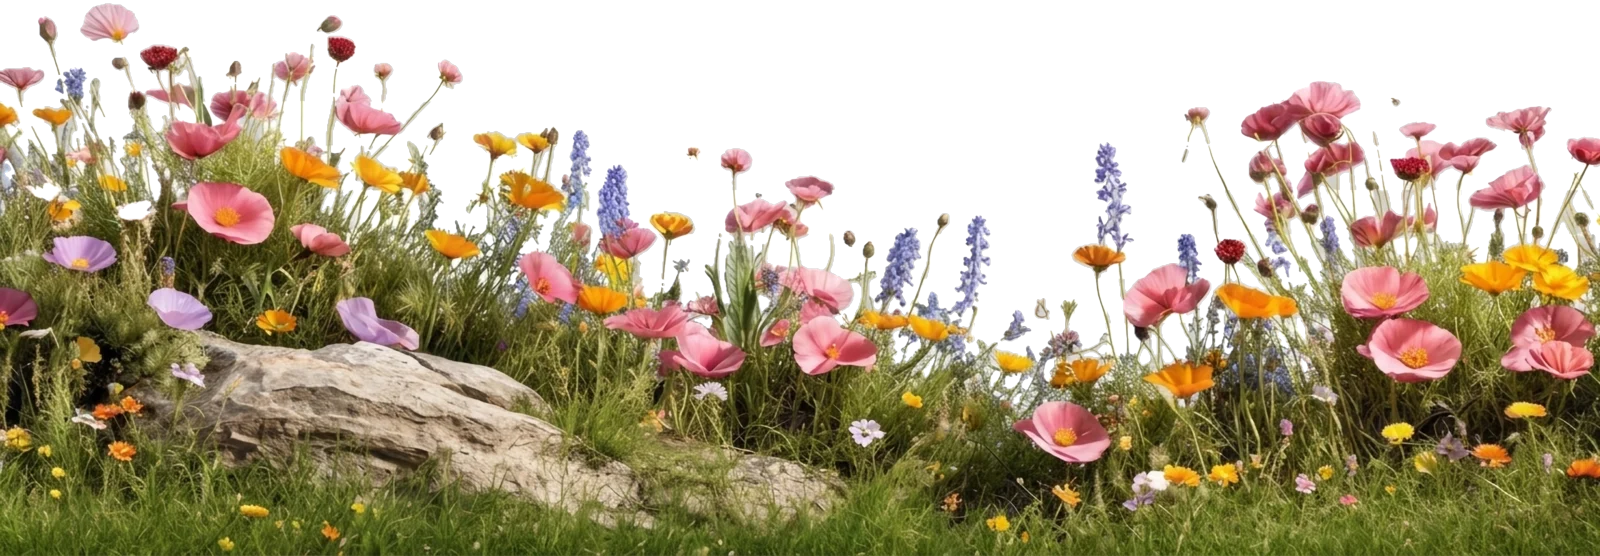
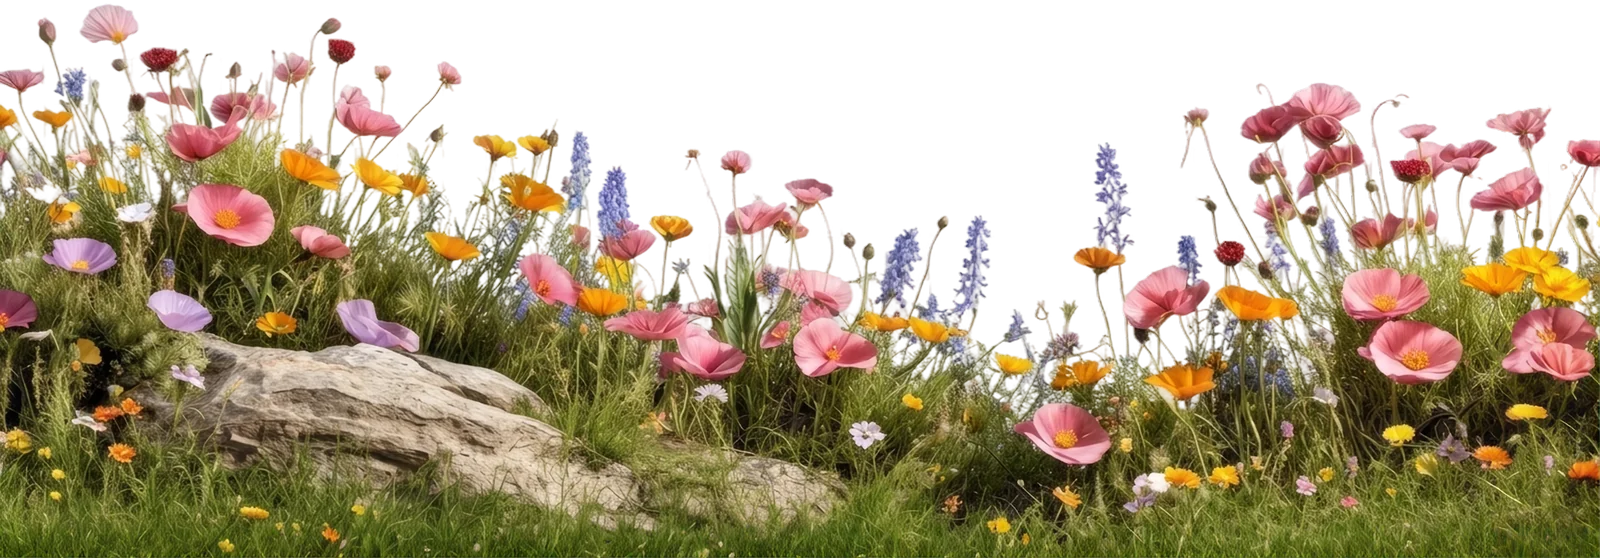
New footer meadow cutout; dark contact image more visible with lighter fade

diff --git a/index.html b/index.html
@@ -541,8 +541,8 @@
         <g class="fw__base"><path d="M46.03,12.52h7.51c4.18,0,7.21,2.71,7.21,6.7c0,3.96-3.03,6.73-7.21,6.73h-3.42v7.33h-4.09V12.52z M53.53,22.24c1.91,0,3.03-1.23,3.03-3.02c0-1.76-1.18-2.96-3.03-2.96h-3.42v5.98H53.53z"/><path d="M64.85,9.41c1.45,0,2.63,1.13,2.63,2.64c0,1.48-1.18,2.61-2.63,2.61c-1.45,0-2.6-1.13-2.6-2.61 C62.25,10.54,63.4,9.41,64.85,9.41z M62.82,17.71h4.09v15.57h-4.09V17.71z"/><path d="M79.29,33.29l-3.21-4.97l-3.24,4.97h-4.57l5.48-8.02l-5.12-7.55h4.57l2.88,4.5l2.85-4.5h4.57l-5.15,7.52 l5.51,8.05H79.29z"/><path d="M87.89,26.93c0.48,1.98,2.03,3.08,4.21,3.08c1.48,0,2.88-0.53,4.18-1.57l1.7,2.89 c-1.79,1.54-3.78,2.33-5.99,2.33c-4.63,0.09-8.29-3.65-8.2-8.15c-0.09-4.5,3.51-8.24,7.84-8.15c4.15,0,7.05,3.18,7.05,7.24 c0,0.75-0.09,1.54-0.27,2.33H87.89z M94.7,23.94c-0.03-1.92-1.45-3.15-3.24-3.15c-1.73,0-3.12,1.23-3.57,3.15H94.7z"/><path d="M100.93,9.69h4.09v23.6h-4.09V9.69z"/><path d="M117.79,33.29c-0.97,0.25-1.91,0.38-2.82,0.38c-3.78,0-5.99-1.95-5.99-5.85V21.3h-2.36v-3.59h2.36v-3.93 h4.09v3.93h4.24v3.59h-4.24v6.13c0,1.76,0.85,2.42,2.79,2.42c0.24,0,0.88-0.03,1.94-0.13V33.29z"/><path d="M126.72,17.37c4.39-0.06,8.14,3.68,8.05,8.12c0.09,4.44-3.69,8.24-8.08,8.15c-4.39,0.09-8.08-3.71-7.99-8.15 C118.61,21.05,122.33,17.27,126.72,17.37z M126.72,21.24c-2.27,0-3.88,1.79-3.88,4.28c0,2.42,1.6,4.22,3.88,4.22 c2.21,0,3.88-1.79,3.88-4.22C130.59,23.09,128.93,21.24,126.72,21.24z"/><path d="M136.89,17.71h4.09v9.06c0,1.79,1.18,2.99,2.85,2.99c1.57,0,2.79-1.2,2.79-2.99v-9.06h4.09v8.71 c0,4.34-2.97,7.24-6.87,7.24c-4,0-6.93-2.89-6.93-7.24V17.71z"/><path d="M160.86,17.37c2.94,0,5.21,1.45,6.51,3.84l-2.85,2.3c-0.94-1.42-2.03-2.27-3.6-2.27 c-2.3,0-3.94,1.83-3.94,4.25c0,2.49,1.63,4.28,3.94,4.28c1.54,0,2.63-0.82,3.6-2.23l2.85,2.27c-1.3,2.39-3.6,3.87-6.51,3.87 c-4.39,0.09-8.08-3.68-8.02-8.18C152.84,20.92,156.41,17.37,160.86,17.37z"/><path d="M183.26,33.29h-4.06v-9.06c0-1.79-1.12-3.02-2.79-3.02c-1.67,0-2.85,1.23-2.85,3.02v9.06h-4.09V9.69h4.09 v9.34c1-1.04,2.45-1.67,4.12-1.67c3.39,0,5.57,2.49,5.57,6.26V33.29z"/></g><g class="fw__lit" fill="url(#fwg)"><path d="M46.03,12.52h7.51c4.18,0,7.21,2.71,7.21,6.7c0,3.96-3.03,6.73-7.21,6.73h-3.42v7.33h-4.09V12.52z M53.53,22.24c1.91,0,3.03-1.23,3.03-3.02c0-1.76-1.18-2.96-3.03-2.96h-3.42v5.98H53.53z"/><path d="M64.85,9.41c1.45,0,2.63,1.13,2.63,2.64c0,1.48-1.18,2.61-2.63,2.61c-1.45,0-2.6-1.13-2.6-2.61 C62.25,10.54,63.4,9.41,64.85,9.41z M62.82,17.71h4.09v15.57h-4.09V17.71z"/><path d="M79.29,33.29l-3.21-4.97l-3.24,4.97h-4.57l5.48-8.02l-5.12-7.55h4.57l2.88,4.5l2.85-4.5h4.57l-5.15,7.52 l5.51,8.05H79.29z"/><path d="M87.89,26.93c0.48,1.98,2.03,3.08,4.21,3.08c1.48,0,2.88-0.53,4.18-1.57l1.7,2.89 c-1.79,1.54-3.78,2.33-5.99,2.33c-4.63,0.09-8.29-3.65-8.2-8.15c-0.09-4.5,3.51-8.24,7.84-8.15c4.15,0,7.05,3.18,7.05,7.24 c0,0.75-0.09,1.54-0.27,2.33H87.89z M94.7,23.94c-0.03-1.92-1.45-3.15-3.24-3.15c-1.73,0-3.12,1.23-3.57,3.15H94.7z"/><path d="M100.93,9.69h4.09v23.6h-4.09V9.69z"/><path d="M117.79,33.29c-0.97,0.25-1.91,0.38-2.82,0.38c-3.78,0-5.99-1.95-5.99-5.85V21.3h-2.36v-3.59h2.36v-3.93 h4.09v3.93h4.24v3.59h-4.24v6.13c0,1.76,0.85,2.42,2.79,2.42c0.24,0,0.88-0.03,1.94-0.13V33.29z"/><path d="M126.72,17.37c4.39-0.06,8.14,3.68,8.05,8.12c0.09,4.44-3.69,8.24-8.08,8.15c-4.39,0.09-8.08-3.71-7.99-8.15 C118.61,21.05,122.33,17.27,126.72,17.37z M126.72,21.24c-2.27,0-3.88,1.79-3.88,4.28c0,2.42,1.6,4.22,3.88,4.22 c2.21,0,3.88-1.79,3.88-4.22C130.59,23.09,128.93,21.24,126.72,21.24z"/><path d="M136.89,17.71h4.09v9.06c0,1.79,1.18,2.99,2.85,2.99c1.57,0,2.79-1.2,2.79-2.99v-9.06h4.09v8.71 c0,4.34-2.97,7.24-6.87,7.24c-4,0-6.93-2.89-6.93-7.24V17.71z"/><path d="M160.86,17.37c2.94,0,5.21,1.45,6.51,3.84l-2.85,2.3c-0.94-1.42-2.03-2.27-3.6-2.27 c-2.3,0-3.94,1.83-3.94,4.25c0,2.49,1.63,4.28,3.94,4.28c1.54,0,2.63-0.82,3.6-2.23l2.85,2.27c-1.3,2.39-3.6,3.87-6.51,3.87 c-4.39,0.09-8.08-3.68-8.02-8.18C152.84,20.92,156.41,17.37,160.86,17.37z"/><path d="M183.26,33.29h-4.06v-9.06c0-1.79-1.12-3.02-2.79-3.02c-1.67,0-2.85,1.23-2.85,3.02v9.06h-4.09V9.69h4.09 v9.34c1-1.04,2.45-1.67,4.12-1.67c3.39,0,5.57,2.49,5.57,6.26V33.29z"/></g></svg>
     </div>
     <picture class="foot__meadow" aria-hidden="true">
-      <source media="(max-width:700px)" srcset="assets/meadow-sm.webp?v=6">
-      <img src="assets/meadow.webp?v=6" alt="" width="3840" height="1334" loading="lazy" decoding="async">
+      <source media="(max-width:700px)" srcset="assets/meadow-sm.webp?v=7">
+      <img src="assets/meadow.webp?v=7" alt="" width="3840" height="1339" loading="lazy" decoding="async">
     </picture>
   </div>
 </footer>

diff --git a/styles.css b/styles.css
@@ -731,8 +731,8 @@ html.theme-fade,html.theme-fade *,html.theme-fade *::before,html.theme-fade *::a
 /* Contact: hill shows clearly at the bottom, fades into the panel */
 [data-theme="dark"] .contact__card{background:var(--surface);box-shadow:0 0 0 1px var(--line-2) inset}
 [data-theme="dark"] .contact__intro{background:#0e1216}
-[data-theme="dark"] .contact__intro::before{opacity:1;height:72%;filter:brightness(.78) saturate(1.08) contrast(1.04);-webkit-mask:linear-gradient(180deg,transparent 0%,rgba(0,0,0,.04) 14%,rgba(0,0,0,.16) 28%,rgba(0,0,0,.4) 42%,rgba(0,0,0,.72) 56%,rgba(0,0,0,.92) 68%,#000 78%);mask:linear-gradient(180deg,transparent 0%,rgba(0,0,0,.04) 14%,rgba(0,0,0,.16) 28%,rgba(0,0,0,.4) 42%,rgba(0,0,0,.72) 56%,rgba(0,0,0,.92) 68%,#000 78%)}
-[data-theme="dark"] .contact__intro::after{content:"";position:absolute;z-index:-1;inset:0;pointer-events:none;background:linear-gradient(180deg,transparent 70%,rgba(14,18,22,.22) 100%)}
+[data-theme="dark"] .contact__intro::before{opacity:1;height:68%;filter:brightness(.92) saturate(1.08);-webkit-mask:linear-gradient(180deg,transparent 0%,rgba(0,0,0,.35) 8%,rgba(0,0,0,.75) 18%,#000 30%);mask:linear-gradient(180deg,transparent 0%,rgba(0,0,0,.35) 8%,rgba(0,0,0,.75) 18%,#000 30%)}
+[data-theme="dark"] .contact__intro::after{content:none}
 /* Form fields */
 [data-theme="dark"] .field input,[data-theme="dark"] .field textarea{background:#0c0f13;border-color:rgba(255,255,255,.07);color:var(--ink);box-shadow:inset 0 1px 2px rgba(0,0,0,.35)}
 [data-theme="dark"] .field input:hover,[data-theme="dark"] .field textarea:hover{border-color:rgba(255,255,255,.14)}
@@ -742,3 +742,4 @@ html.theme-fade,html.theme-fade *,html.theme-fade *::before,html.theme-fade *::a
 [data-theme="dark"] .seg i{background:#0c0f13;border-color:rgba(255,255,255,.08);color:var(--ink-2)}
 [data-theme="dark"] .seg i:hover{border-color:rgba(255,255,255,.18)}
 [data-theme="dark"] .seg input:checked + i{background:var(--ink);color:var(--on-ink);border-color:transparent}
+[data-theme="dark"] .contact__top p{color:#d5dbe2;text-shadow:0 1px 12px rgba(10,12,15,.85),0 0 2px rgba(10,12,15,.6)}

diff --git a/src/index.src.html b/src/index.src.html
@@ -343,8 +343,8 @@
         <g class="fw__base">{{WORDS}}</g><g class="fw__lit" fill="url(#fwg)">{{WORDS}}</g></svg>
     </div>
     <picture class="foot__meadow" aria-hidden="true">
-      <source media="(max-width:700px)" srcset="assets/meadow-sm.webp?v=6">
-      <img src="assets/meadow.webp?v=6" alt="" width="3840" height="1334" loading="lazy" decoding="async">
+      <source media="(max-width:700px)" srcset="assets/meadow-sm.webp?v=7">
+      <img src="assets/meadow.webp?v=7" alt="" width="3840" height="1339" loading="lazy" decoding="async">
     </picture>
   </div>
 </footer>
